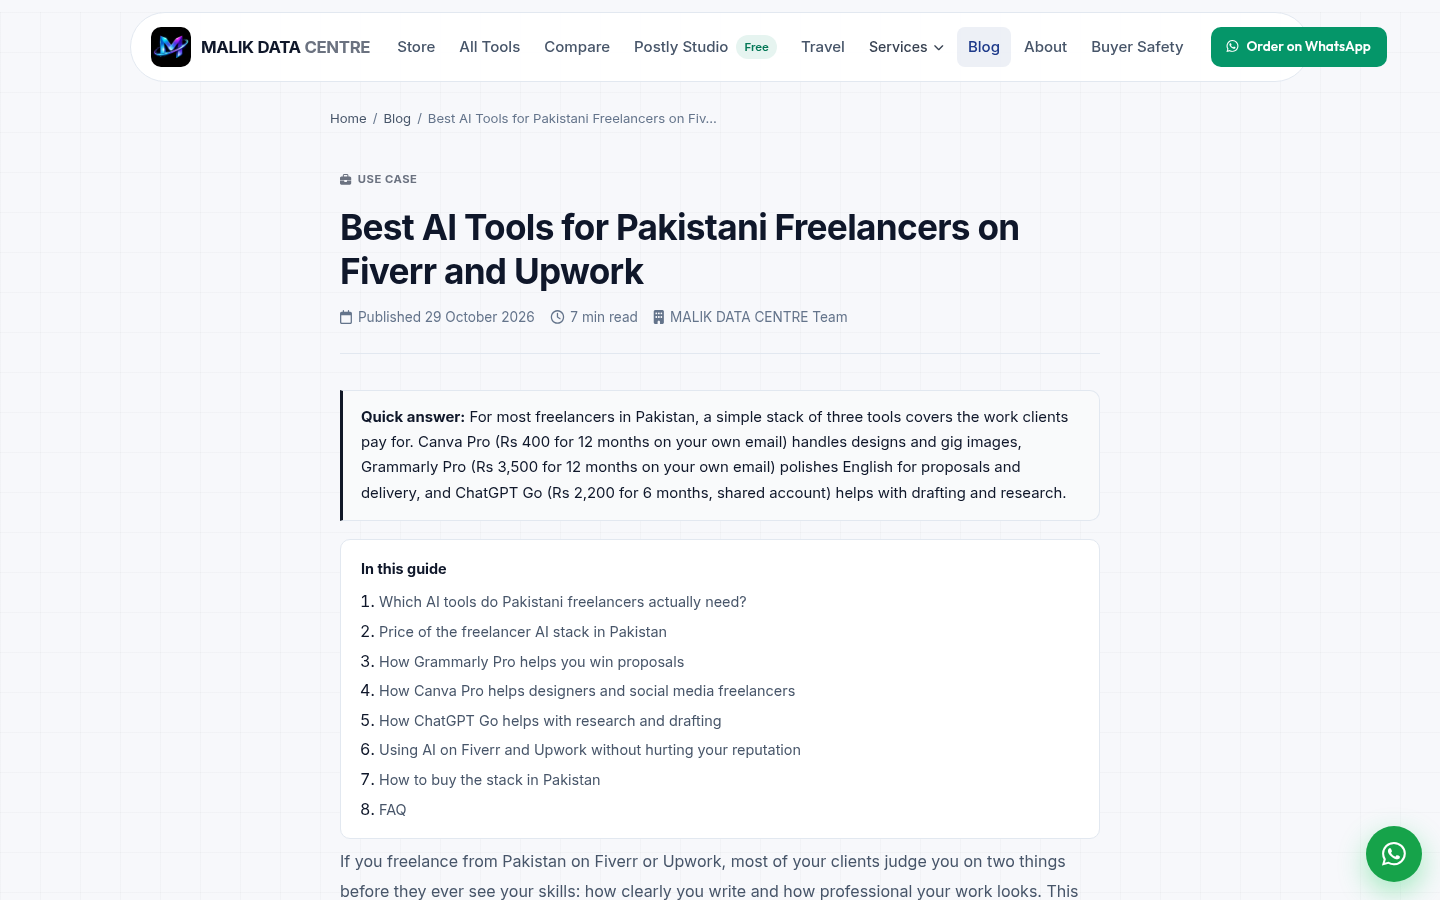
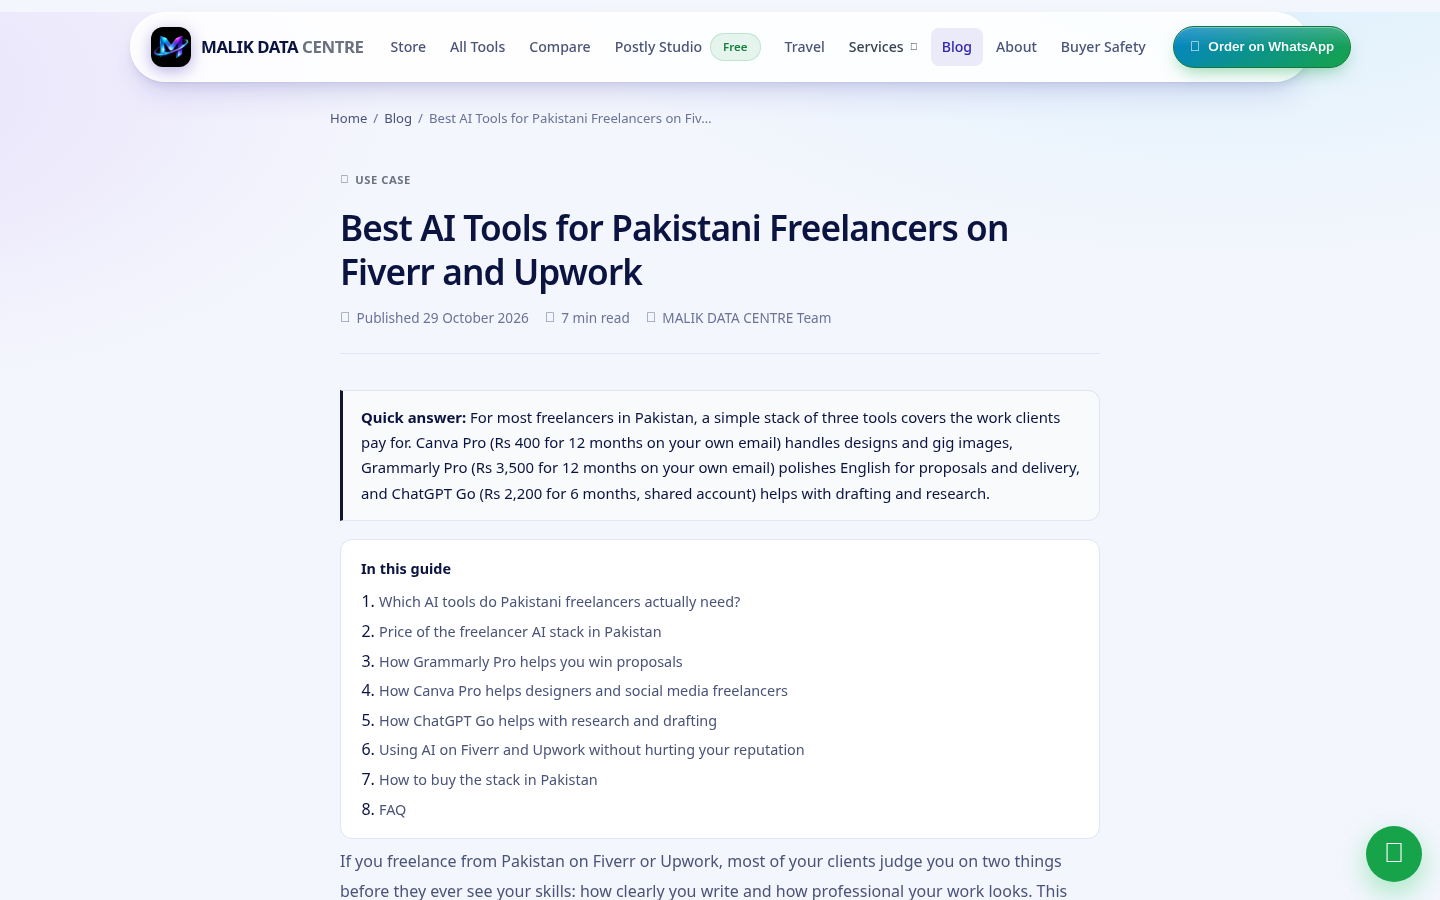
Theme: brand gradients on legacy buttons, blog quote, mobile label

diff --git a/theme.css b/theme.css
@@ -443,3 +443,18 @@ h1, h2, h3, h4, .section-title, .mdc-hero-title, .logo-text { font-family: "Inte
     .pg-card:hover, .tool-card:hover, .blog-card:hover, .tr-card:hover, .feature-card:hover { transform: none !important; }
 }
 @media (prefers-reduced-motion: reduce) { * { transition: none !important; animation: none !important; } }
+/* v3.1 specificity fixes for legacy dark buttons */
+body .btn-primary, body .btn-gradient, body .mdc-co-submit, body .mdc-ai-send, body .tab-btn.active,
+body .pg-buybox .btn-gradient, body .pg-plan .btn-gradient, body .mdc-coupon-form button, body #mdc-coupon-btn {
+    background: linear-gradient(180deg, rgba(255,255,255,.18), rgba(255,255,255,0) 50%), var(--grad-deep) !important;
+    border-color: #081d5b !important; color: #fff !important;
+    box-shadow: inset 0 1px 0 rgba(255,255,255,.35), 0 8px 18px -6px rgba(52,35,173,.55) !important;
+}
+body .btn-success, body .btn-buy, body .pg-plan .btn-buy, body .pg-cta .btn-success {
+    background: linear-gradient(180deg, rgba(255,255,255,.2), rgba(255,255,255,0) 50%), var(--grad-tours) !important;
+    border-color: #0f7a3a !important; color: #fff !important;
+    box-shadow: inset 0 1px 0 rgba(255,255,255,.35), 0 8px 18px -6px rgba(22,163,74,.5) !important;
+}
+body .btn-primary:hover, body .btn-gradient:hover, body .btn-success:hover, body .btn-buy:hover { transform: translateY(-2px); filter: brightness(1.07); }
+.article-body blockquote { border-left: 4px solid transparent !important; border-image: var(--grad-brand) 1 !important; }
+@media (max-width: 480px) { .mdc-hero-eyebrow { font-size: .66rem !important; letter-spacing: .06em !important; text-align: center; } }
